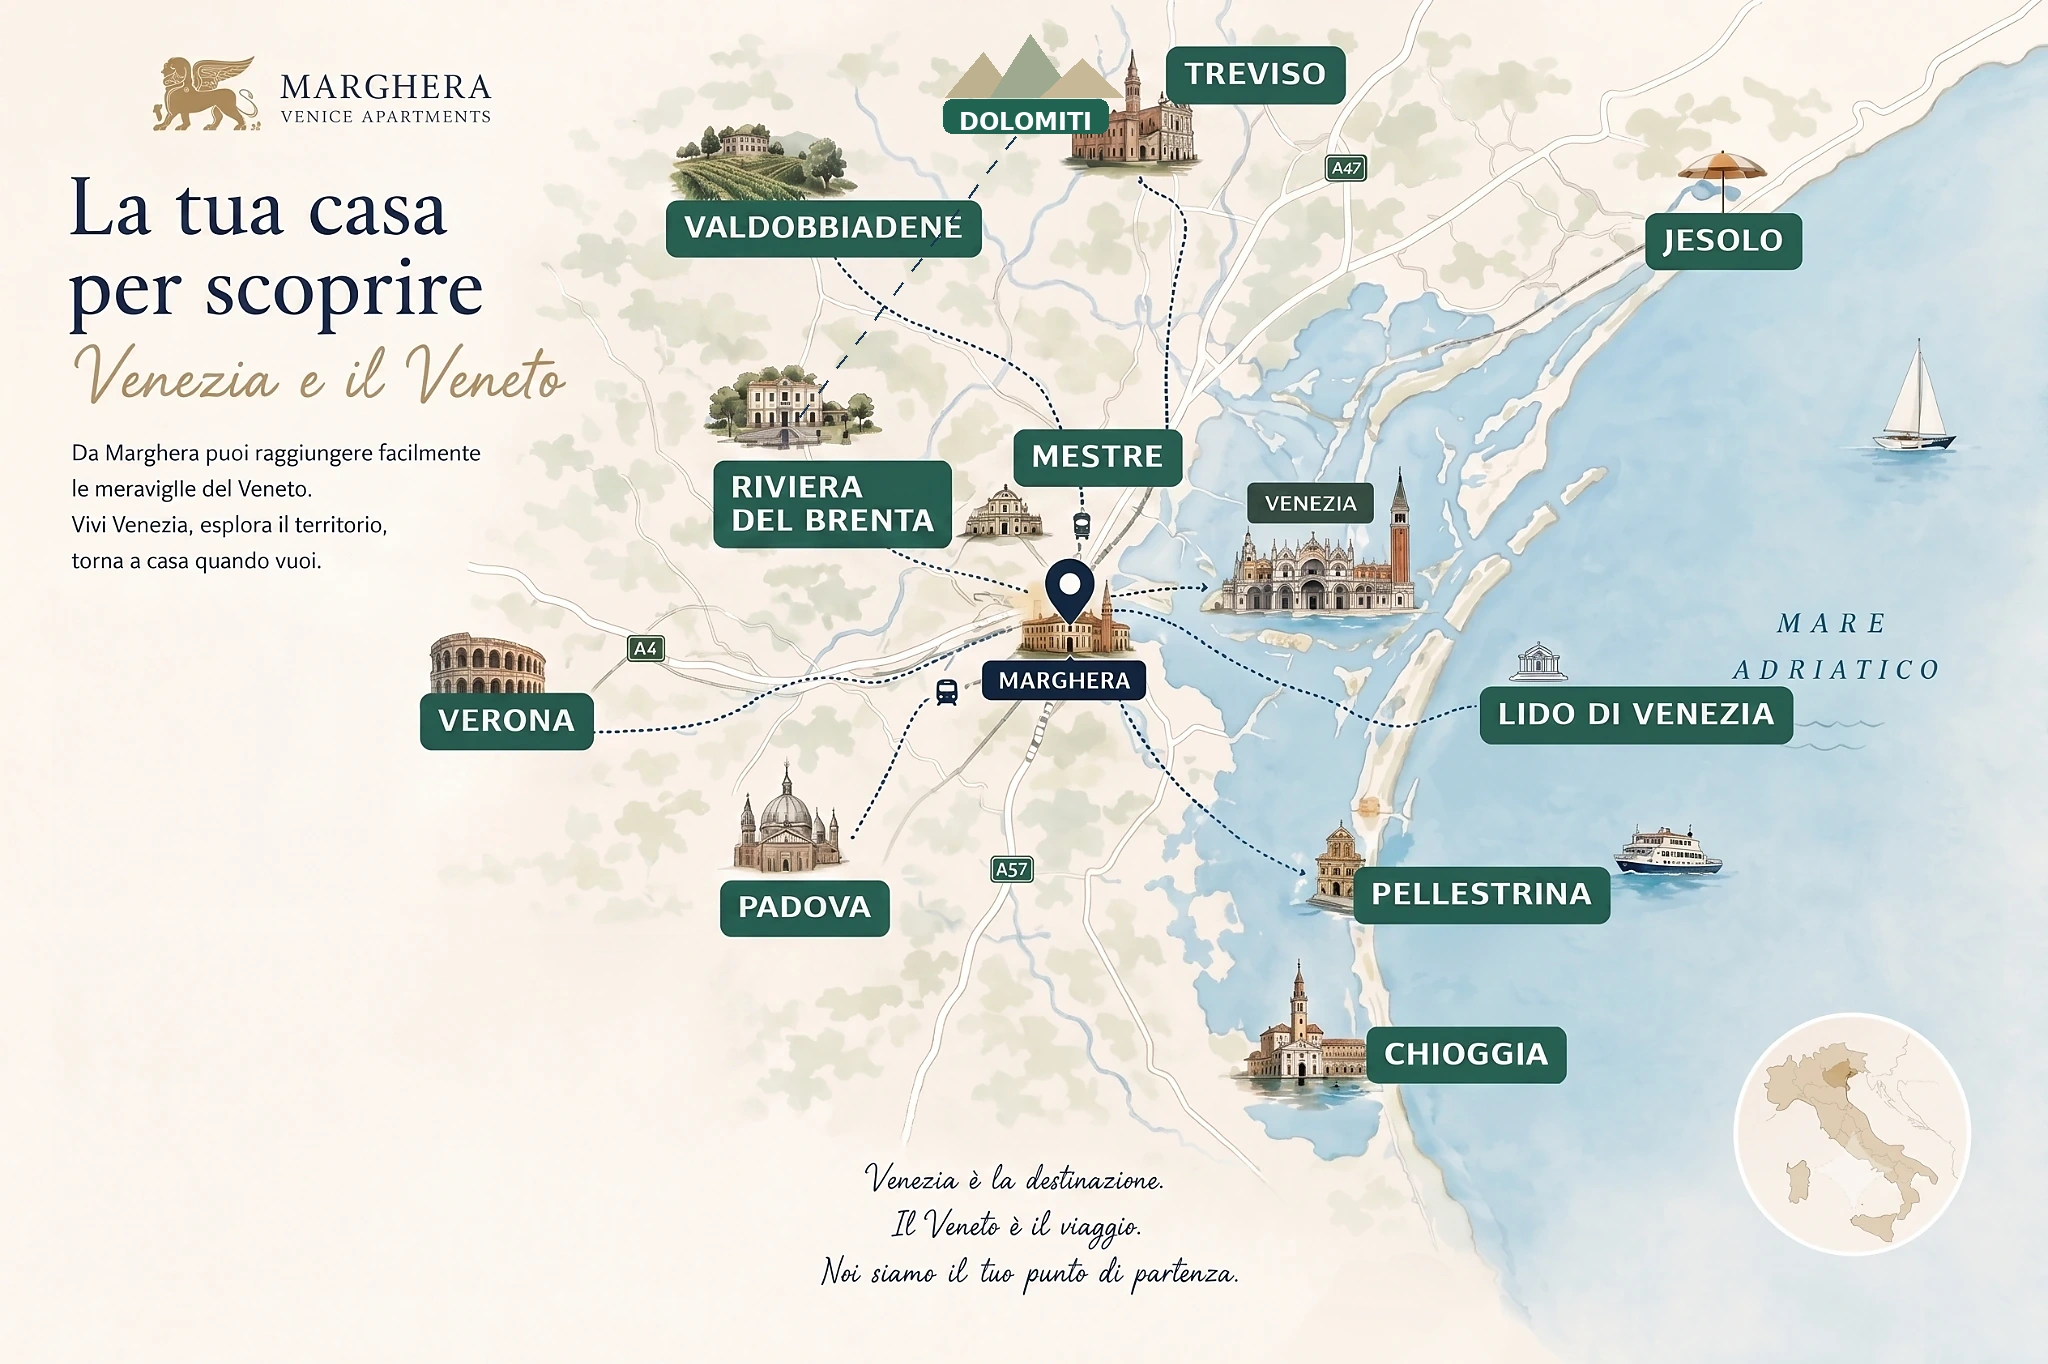
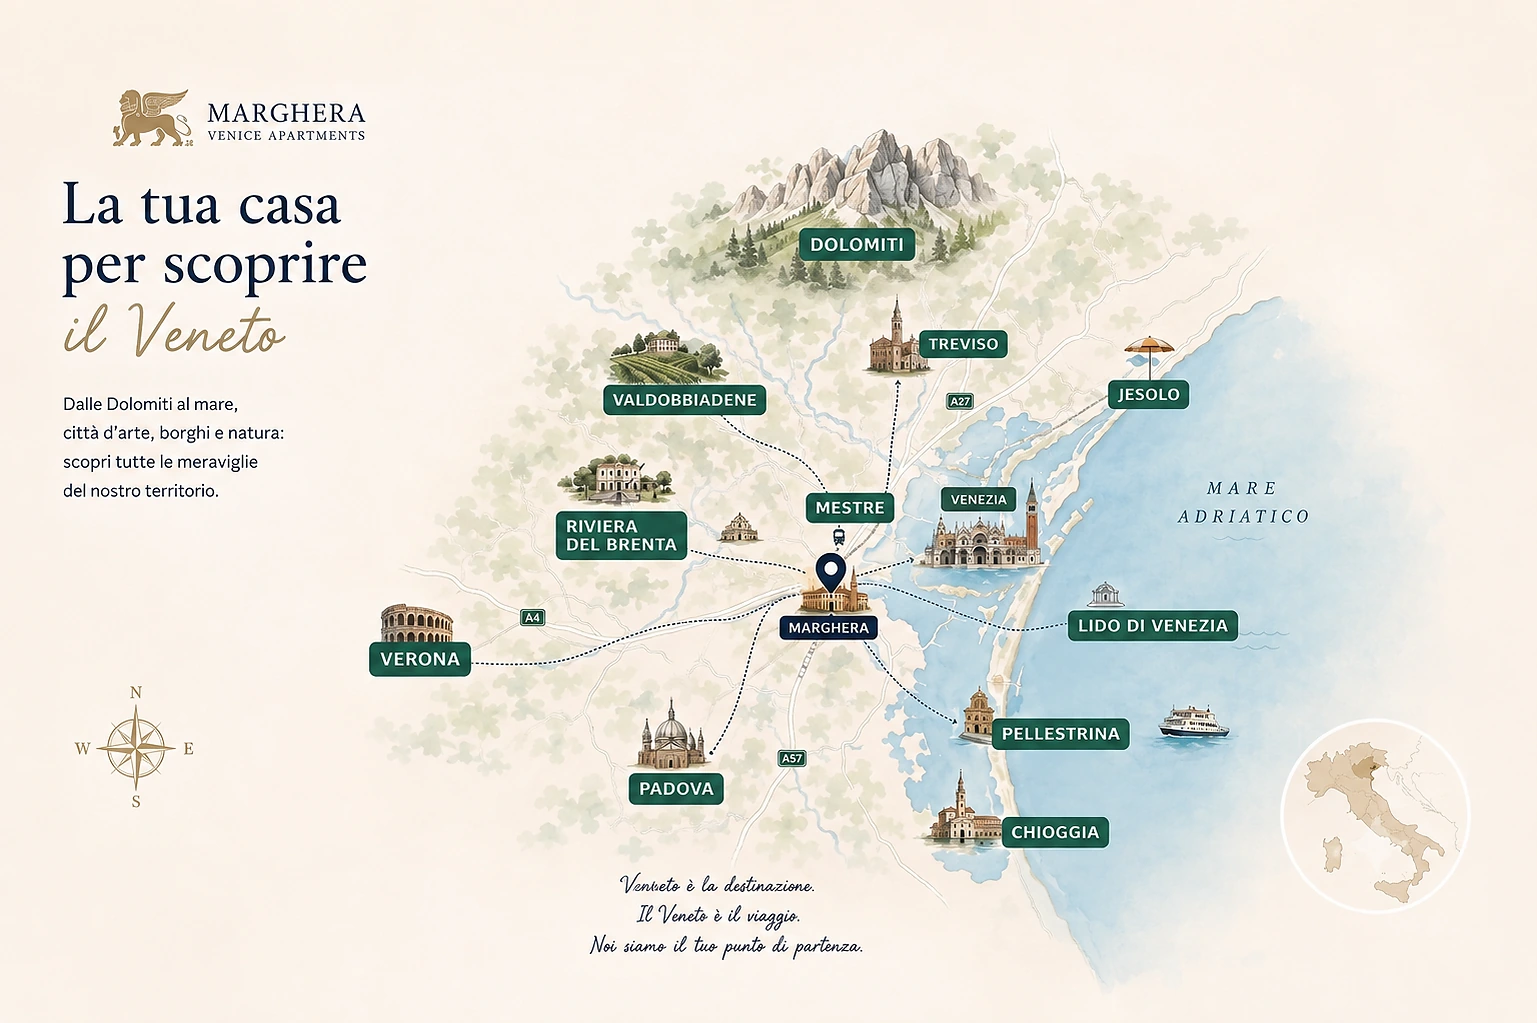
Aggiorna mappa Veneto e immagine collegamenti Venezia

diff --git a/app/page.tsx b/app/page.tsx
@@ -13,7 +13,7 @@ const inspiration=[
  {title:'Guide & Eventi',text:'Redentore, Carnevale, Biennale e informazioni pratiche.',image:'/images/redentore.webp',href:'/#journal'}
 ];
 const journal=[
- {title:'Come raggiungere Venezia da Marghera',text:'Bus e treni, orari utili e libertà di rientrare anche di notte.',image:'/images/bus-motion-clean.webp',href:'/come-raggiungere-venezia'},
+ {title:'Come raggiungere Venezia da Marghera',text:'Bus e treni, orari utili e libertà di rientrare anche di notte.',image:'/images/home-come-raggiungere-venezia.webp',href:'/come-raggiungere-venezia'},
  {title:'Riviera del Brenta in un giorno',text:'Ville venete, arte, natura e itinerari a pochi minuti in auto.',image:'/images/veneto-riviera-brenta-final.webp',href:'/guide/riviera-del-brenta'},
  {title:'Venezia con bambini',text:'Musei, attività e consigli per una giornata piacevole in famiglia.',image:'/images/venezia-bambini-museo-storia-naturale.webp',href:'/journal/venezia-con-bambini'}
 ];
